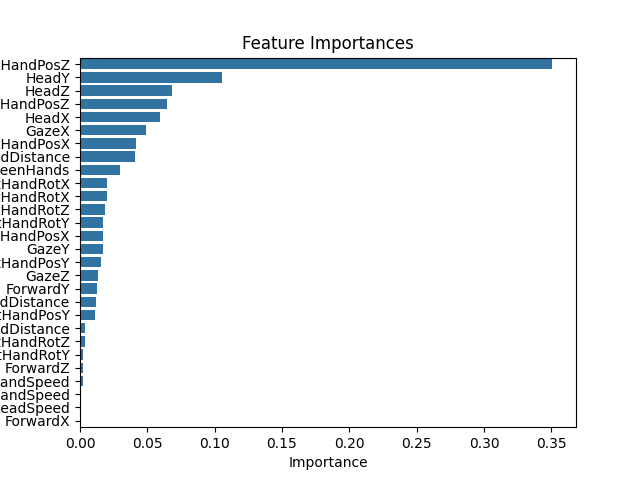
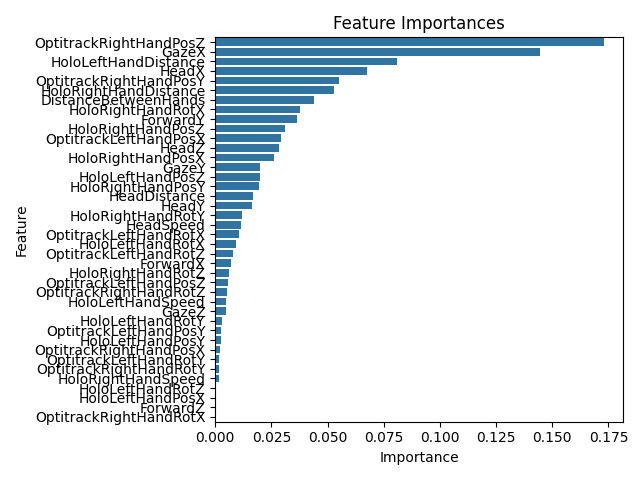
Train on multiple participants

Changed region(s): [[0.0, 0.0312, 1.0, 1.0]]

diff --git a/classifier.py b/classifier.py
@@ -1,124 +1,138 @@
-import pandas as pd
-from sklearn.model_selection import train_test_split
-from sklearn.tree import DecisionTreeClassifier, plot_tree
-from sklearn.metrics import classification_report, accuracy_score
 import matplotlib.pyplot as plt
+import pandas as pd
 import seaborn as sns
+from sklearn.metrics import classification_report
+from sklearn.model_selection import train_test_split
+from sklearn.preprocessing import StandardScaler
+from sklearn.tree import DecisionTreeClassifier, plot_tree
 
-def train_classifier(csv_file):
-    # Read the CSV file
-    data = pd.read_csv(csv_file, low_memory=False)
-    
+feature_columns = [
+    # 'AppTime',
+    # 'UnixTime',
+    # 'TriggerTrial',
+    # 'PostTrigger',
+    # 'RegionNum',
+    # 'RegionName',
+    # 'Task',
+    # 'Step',
+    # 'Idle',
+    'HeadX',
+    'HeadY',
+    'HeadZ',
+    'GazeX',
+    'GazeY',
+    'GazeZ',
+    'ForwardX',
+    'ForwardY',
+    'ForwardZ',
+    # 'GazeObject',
+    'HoloRightHandPosX',
+    'HoloRightHandPosY',
+    'HoloRightHandPosZ',
+    'HoloRightHandRotX',
+    'HoloRightHandRotY',
+    'HoloRightHandRotZ',
+    'HoloLeftHandPosX',
+    'HoloLeftHandPosY',
+    'HoloLeftHandPosZ',
+    'HoloLeftHandRotX',
+    'HoloLeftHandRotY',
+    'HoloLeftHandRotZ',
+    'OptitrackRightHandPosX',
+    'OptitrackRightHandPosY',
+    'OptitrackRightHandPosZ',
+    'OptitrackRightHandRotX',
+    'OptitrackRightHandRotY',
+    'OptitrackRightHandRotZ',
+    'OptitrackLeftHandPosX',
+    'OptitrackLeftHandPosY',
+    'OptitrackLeftHandPosZ',
+    'OptitrackLeftHandRotX',
+    'OptitrackLeftHandRotY',
+    'OptitrackLeftHandRotZ',
+    # 'Temperature',
+    # 'GSR',
+    # 'BVP',
+    # 'Hr',
+    # 'Ibi',
+    # 'Code',
+    'HoloRightHandDistance',
+    'HoloLeftHandDistance',
+    'HeadDistance',
+    'HoloRightHandSpeed',
+    'HoloLeftHandSpeed',
+    'HeadSpeed',
+    'DistanceBetweenHands'
+]
+
+def load_and_concatenate_data(file_list):
+    data_frames = []
+    for file in file_list:
+        data = pd.read_csv(file, low_memory=False)
+        data_frames.append(data)
+    combined_data = pd.concat(data_frames, ignore_index=True)
+    return combined_data
+
+def train_and_evaluate_model(data, generate_graphics=False):
+
     # Omit uncoded rows
     data = data.dropna(subset=['Code'])
 
-    # Omit rows where hands and head are not moving (HoloLens tracking lost)
-    data = data[data['HoloRightHandPosX'] != data['HoloRightHandPosX'].shift()]
-    data = data[data['HoloRightHandRotX'] != data['HoloRightHandRotX'].shift()]
-    data = data[data['HoloLeftHandPosX'] != data['HoloLeftHandPosX'].shift()]
-    data = data[data['HoloLeftHandRotX'] != data['HoloLeftHandRotX'].shift()]
-    data = data[data['HeadX'] != data['HeadX'].shift()]
-    data = data[data['GazeX'] != data['GazeX'].shift()]
-    data = data[data['ForwardX'] != data['ForwardX'].shift()]
-
-    # Take only first sample from each code
-    # data = data[data['Code'] != data['Code'].shift()]
-    
-    # Define the columns to be used as features
-    feature_columns = [
-        # 'AppTime',
-        # 'UnixTime',
-        # 'TriggerTrial',
-        # 'PostTrigger',
-        # 'RegionNum',
-        # 'RegionName',
-        # 'Task',
-        # 'Step',
-        # 'Idle',
-        'HeadX',
-        'HeadY',
-        'HeadZ',
-        'GazeX',
-        'GazeY',
-        'GazeZ',
-        'ForwardX',
-        'ForwardY',
-        'ForwardZ',
-        # 'GazeObject',
-        'HoloRightHandPosX',
-        'HoloRightHandPosY',
-        'HoloRightHandPosZ',
-        'HoloRightHandRotX',
-        'HoloRightHandRotY',
-        'HoloRightHandRotZ',
-        'HoloLeftHandPosX',
-        'HoloLeftHandPosY',
-        'HoloLeftHandPosZ',
-        'HoloLeftHandRotX',
-        'HoloLeftHandRotY',
-        'HoloLeftHandRotZ',
-        # 'OptitrackRightHandPosX',
-        # 'OptitrackRightHandPosY',
-        # 'OptitrackRightHandPosZ',
-        # 'OptitrackRightHandRotX',
-        # 'OptitrackRightHandRotY',
-        # 'OptitrackRightHandRotZ',
-        # 'OptitrackLeftHandPosX',
-        # 'OptitrackLeftHandPosY',
-        # 'OptitrackLeftHandPosZ',
-        # 'OptitrackLeftHandRotX',
-        # 'OptitrackLeftHandRotY',
-        # 'OptitrackLeftHandRotZ',
-        # 'Temperature',
-        # 'GSR',
-        # 'BVP',
-        # 'Hr',
-        # 'Ibi',
-        # 'Code',
-        # 'HoloRightHandDistance',
-        # 'HoloLeftHandDistance',
-        # 'HeadDistance',
-        # 'HoloRightHandSpeed',
-        # 'HoloLeftHandSpeed',
-        # 'HeadSpeed',
-        # 'DistanceBetweenHands'
-    ]
+    # Separate features and target
     features = data[feature_columns]
-    
     target = data['Code']
     
-    # Split the data into training and testing sets
-    X_train, X_test, y_train, y_test = train_test_split(features, target, test_size=0.2, random_state=42)
+    # Normalize the features
+    scaler = StandardScaler()
+    normalized_features = scaler.fit_transform(features)
     
-    # Initialize a decision tree classifier
-    clf = DecisionTreeClassifier(random_state=42)
+    # Split the data into training and testing sets (80% train, 20% test)
+    X_train, X_test, y_train, y_test = train_test_split(normalized_features, target, test_size=0.2, random_state=42)
     
-    # Train the classifier
+    # Initialize and train the decision tree classifier
+    clf = DecisionTreeClassifier(max_leaf_nodes=100, class_weight="balanced", random_state=42)
     clf.fit(X_train, y_train)
     
-    # Make predictions
+    # Make predictions on the test set
     y_pred = clf.predict(X_test)
     
-    # Evaluate the classifier
-    print(f'Number of leaf nodes: {clf.tree_.n_leaves}')
-    print("Accuracy:", accuracy_score(y_test, y_pred))
+    # Evaluate the model
     print("Classification Report:\n", classification_report(y_test, y_pred))
-    
-    # Export feature importance plot
-    feature_importances_df = pd.DataFrame({
-        'Feature': feature_columns,
-        'Importance': clf.feature_importances_
-    }).sort_values(by='Importance', ascending=False)
-    sns.barplot(x='Importance', y='Feature', data=feature_importances_df)
-    plt.title('Feature Importances')
-    plt.tight_layout()
-    plt.savefig('feature_importances.png')
 
-    # Export decision tree plot
-    plt.figure(figsize=(100,50))
-    plot_tree(clf, feature_names=feature_columns, class_names=clf.classes_, filled=True, rounded=True)
-    plt.savefig('decision_tree.png')
+    if generate_graphics:
+        feature_importances_df = pd.DataFrame({
+            'Feature': feature_columns,
+            'Importance': clf.feature_importances_
+        }).sort_values(by='Importance', ascending=False)
+        sns.barplot(x='Importance', y='Feature', data=feature_importances_df)
+        plt.title('Feature Importances')
+        plt.tight_layout()
+        plt.savefig('feature_importances.png')
 
-# Example usage
-csv_file = 'P48_Log_Features.csv'
-classifier = train_classifier(csv_file)
+        # Export decision tree plot
+        plt.figure(figsize=(100,50))
+        plot_tree(clf, feature_names=feature_columns, class_names=clf.classes_, filled=True, rounded=True)
+        plt.savefig('decision_tree.png')
+
+    return clf, scaler
+
+def test_model_on_new_data(model, scaler, new_data_csv):
+    new_data = pd.read_csv(new_data_csv, low_memory=False)
+    new_data = new_data.dropna(subset=['Code'])
+    features = new_data[feature_columns]
+    features = scaler.transform(features)
+    target = new_data['Code']
+    predictions = model.predict(features)
+    print("Classification Report:\n", classification_report(target, predictions))
+
+# Entry point
+data_files = [
+    'P35_Log_Features.csv',
+    'P48_Log_Features.csv'
+]
+
+# Load and concatenate data
+data = load_and_concatenate_data(data_files)
+
+# Train and evaluate the model
+clf, scaler = train_and_evaluate_model(data, generate_graphics=True)
